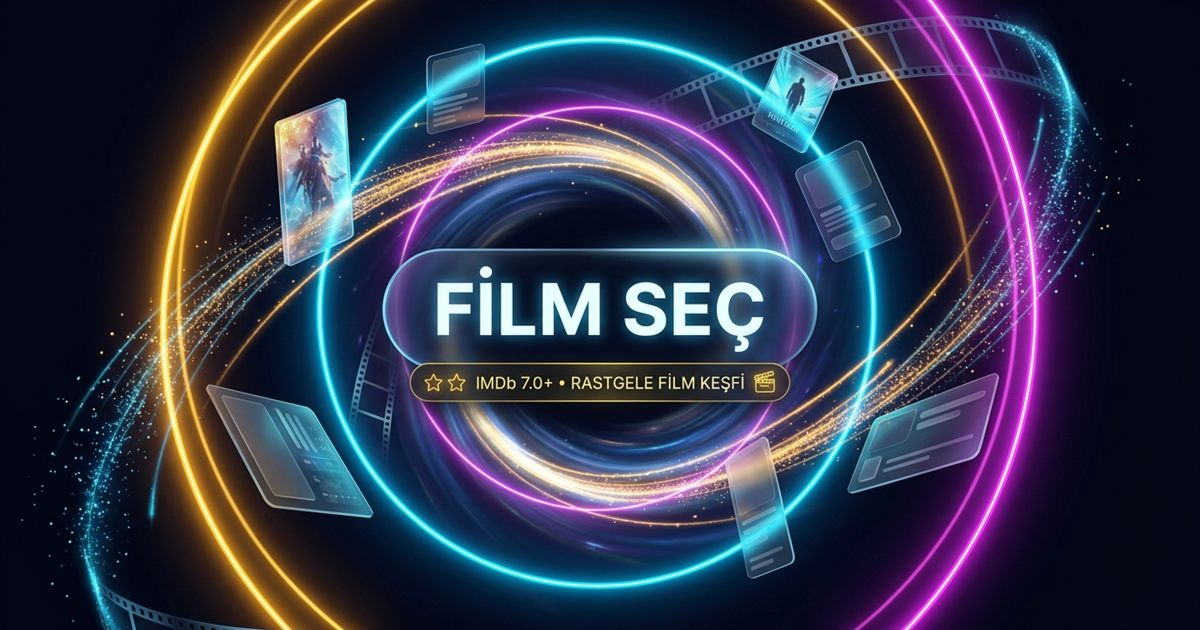
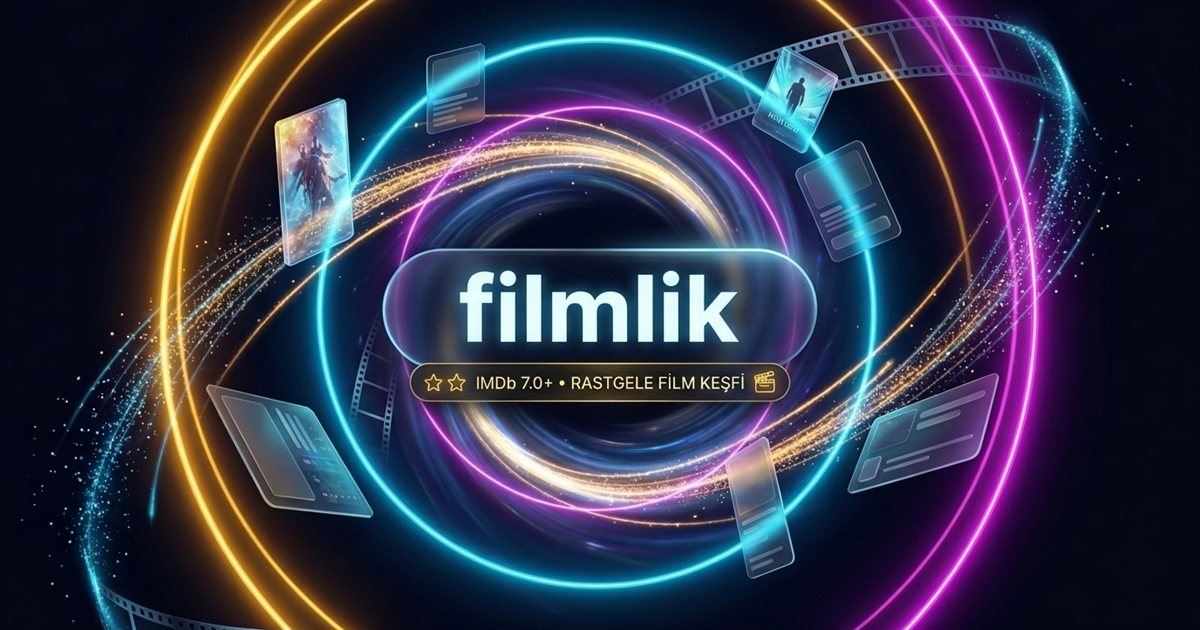
Rename application to filmlik across tab title, meta tags, social preview, and README

diff --git a/index.html b/index.html
@@ -3,13 +3,13 @@
 <head>
   <meta charset="UTF-8">
   <meta name="viewport" content="width=device-width, initial-scale=1.0, viewport-fit=cover">
-  <title>Film Seç ✦ Rastgele IMDb 7.0+ Film Önerisi</title>
+  <title>filmlik</title>
   <meta name="description" content="Bu akşam ne izleyeceğine karar veremedin mi? Tek tıkla 4.682 seçkin IMDb 7.0+ film arasından şansına düşen filmi keşfet!">
   <meta name="theme-color" content="#0d0e17">
   <meta name="mobile-web-app-capable" content="yes">
   <meta name="apple-mobile-web-app-capable" content="yes">
   <meta name="apple-mobile-web-app-status-bar-style" content="black-translucent">
-  <meta name="apple-mobile-web-app-title" content="Film Seç">
+  <meta name="apple-mobile-web-app-title" content="filmlik">
 
   <!-- Sekme İkonları (Favicon & Apple Touch Icon) -->
   <link rel="icon" type="image/svg+xml" href="favicon.svg">
@@ -19,18 +19,18 @@
   <!-- WhatsApp, Telegram, Discord, Twitter/X Paylaşım Önizleme Kartı (Open Graph) -->
   <meta property="og:type" content="website">
   <meta property="og:locale" content="tr_TR">
-  <meta property="og:site_name" content="Film Seç">
-  <meta property="og:title" content="🎬 Film Seç — Şansına Düşen IMDb 7.0+ Filmi Keşfet">
+  <meta property="og:site_name" content="filmlik">
+  <meta property="og:title" content="filmlik">
   <meta property="og:description" content="Tek tıkla 4.682 seçkin IMDb 7.0+ film arasından tamamen rastgele, yüksek puanlı bir film önerisi al!">
   <meta property="og:image" content="https://evazakli.github.io/film-oneri/og-preview.jpg">
   <meta property="og:image" content="og-preview.jpg">
   <meta property="og:image:type" content="image/jpeg">
   <meta property="og:image:width" content="1200">
   <meta property="og:image:height" content="630">
-  <meta property="og:image:alt" content="Film Seç — IMDb 7.0+ Rastgele Film Keşfi">
+  <meta property="og:image:alt" content="filmlik">
 
   <meta name="twitter:card" content="summary_large_image">
-  <meta name="twitter:title" content="🎬 Film Seç — Şansına Düşen IMDb 7.0+ Filmi Keşfet">
+  <meta name="twitter:title" content="filmlik">
   <meta name="twitter:description" content="Tek tıkla 4.682 seçkin IMDb 7.0+ film arasından tamamen rastgele, yüksek puanlı bir film önerisi al!">
   <meta name="twitter:image" content="https://evazakli.github.io/film-oneri/og-preview.jpg">
 
@@ -45,7 +45,7 @@
   <div class="cinema-grain" aria-hidden="true"></div>
 
   <main id="main-content" class="main-stage">
-    <h1 id="main-title" tabindex="-1" class="visually-hidden">Rastgele Film Seçici</h1>
+    <h1 id="main-title" tabindex="-1" class="visually-hidden">filmlik</h1>
 
     <!-- İSTEĞE BAĞLI TÜR VE YIL FİLTRESİ -->
     <search class="genre-bar" id="genre-bar" aria-label="Film filtreleri">

diff --git a/app.js b/app.js
@@ -384,8 +384,7 @@ function populateMovieCard(movie) {
   poster.src = movie.img;
   poster.alt = `${movie.t} (${movie.y || ''}) film afişi`;
 
-  const scoreStr = movie.r ? movie.r.toFixed(1) : '';
-  document.title = `🎬 ${movie.t}${movie.y ? ` (${movie.y})` : ''}${scoreStr ? ` ★ ${scoreStr}` : ''} | Film Seç`;
+  document.title = 'filmlik';
 
   const titleLink = document.getElementById('movie-title-link');
   const imdbUrl = `https://www.imdb.com/title/${movie.id}/`;

diff --git a/README.md b/README.md
@@ -1,4 +1,4 @@
-# 🎬 Film Seç — Sinematik & Kriptografik Rastgele Film Keşif Platformu
+# 🎬 filmlik
 
 ![HTML5](https://img.shields.io/badge/HTML5-Semantic-E34F26?style=flat-square&logo=html5&logoColor=white)
 ![Modern CSS](https://img.shields.io/badge/CSS-OKLCH%20%26%20View%20Transitions-1572B6?style=flat-square&logo=css3&logoColor=white)
@@ -6,9 +6,9 @@
 ![IMDb Dataset](https://img.shields.io/badge/IMDb%207.0%2B-4.682%20Film-F5C518?style=flat-square&logo=imdb&logoColor=black)
 ![GitHub Pages](https://img.shields.io/badge/GitHub%20Pages-Ready-222222?style=flat-square&logo=githubpages&logoColor=white)
 
-![Film Seç Önizleme](og-preview.jpg)
+![filmlik](og-preview.jpg)
 
-**"Bu akşam ne izlesem?"** sorusunu karmaşık menüler, reklamlar ve algoritma önyargıları olmadan çözen; ultra-minimalist, görsel ve işitsel olarak şaşırtıcı bir sinema keşif uygulaması.
+**"Bu akşam ne izlesem?"** sorusunu karmaşık menüler, reklamlar ve algoritma önyargıları olmadan çözen; ultra-minimalist, görsel ve işitsel olarak şaşırtıcı bir sinema keşif uygulaması: **filmlik**.
 
 Uygulama açıldığında kullanıcıyı hiçbir metin kalabalığı olmadan yalnızca karanlık bir uzay boşluğu, etkileşimli yıldız alanı ve merkezdeki **"FİLM SEÇ"** butonu karşılar. Butona basıldığı anda devreye giren 3 boyutlu görsel şovların ardından, **IMDb puanı 7.0 ve üzerinde olan 4.682 gerçek film** arasından tamamen rastgele bir yapım sunulur.
 
